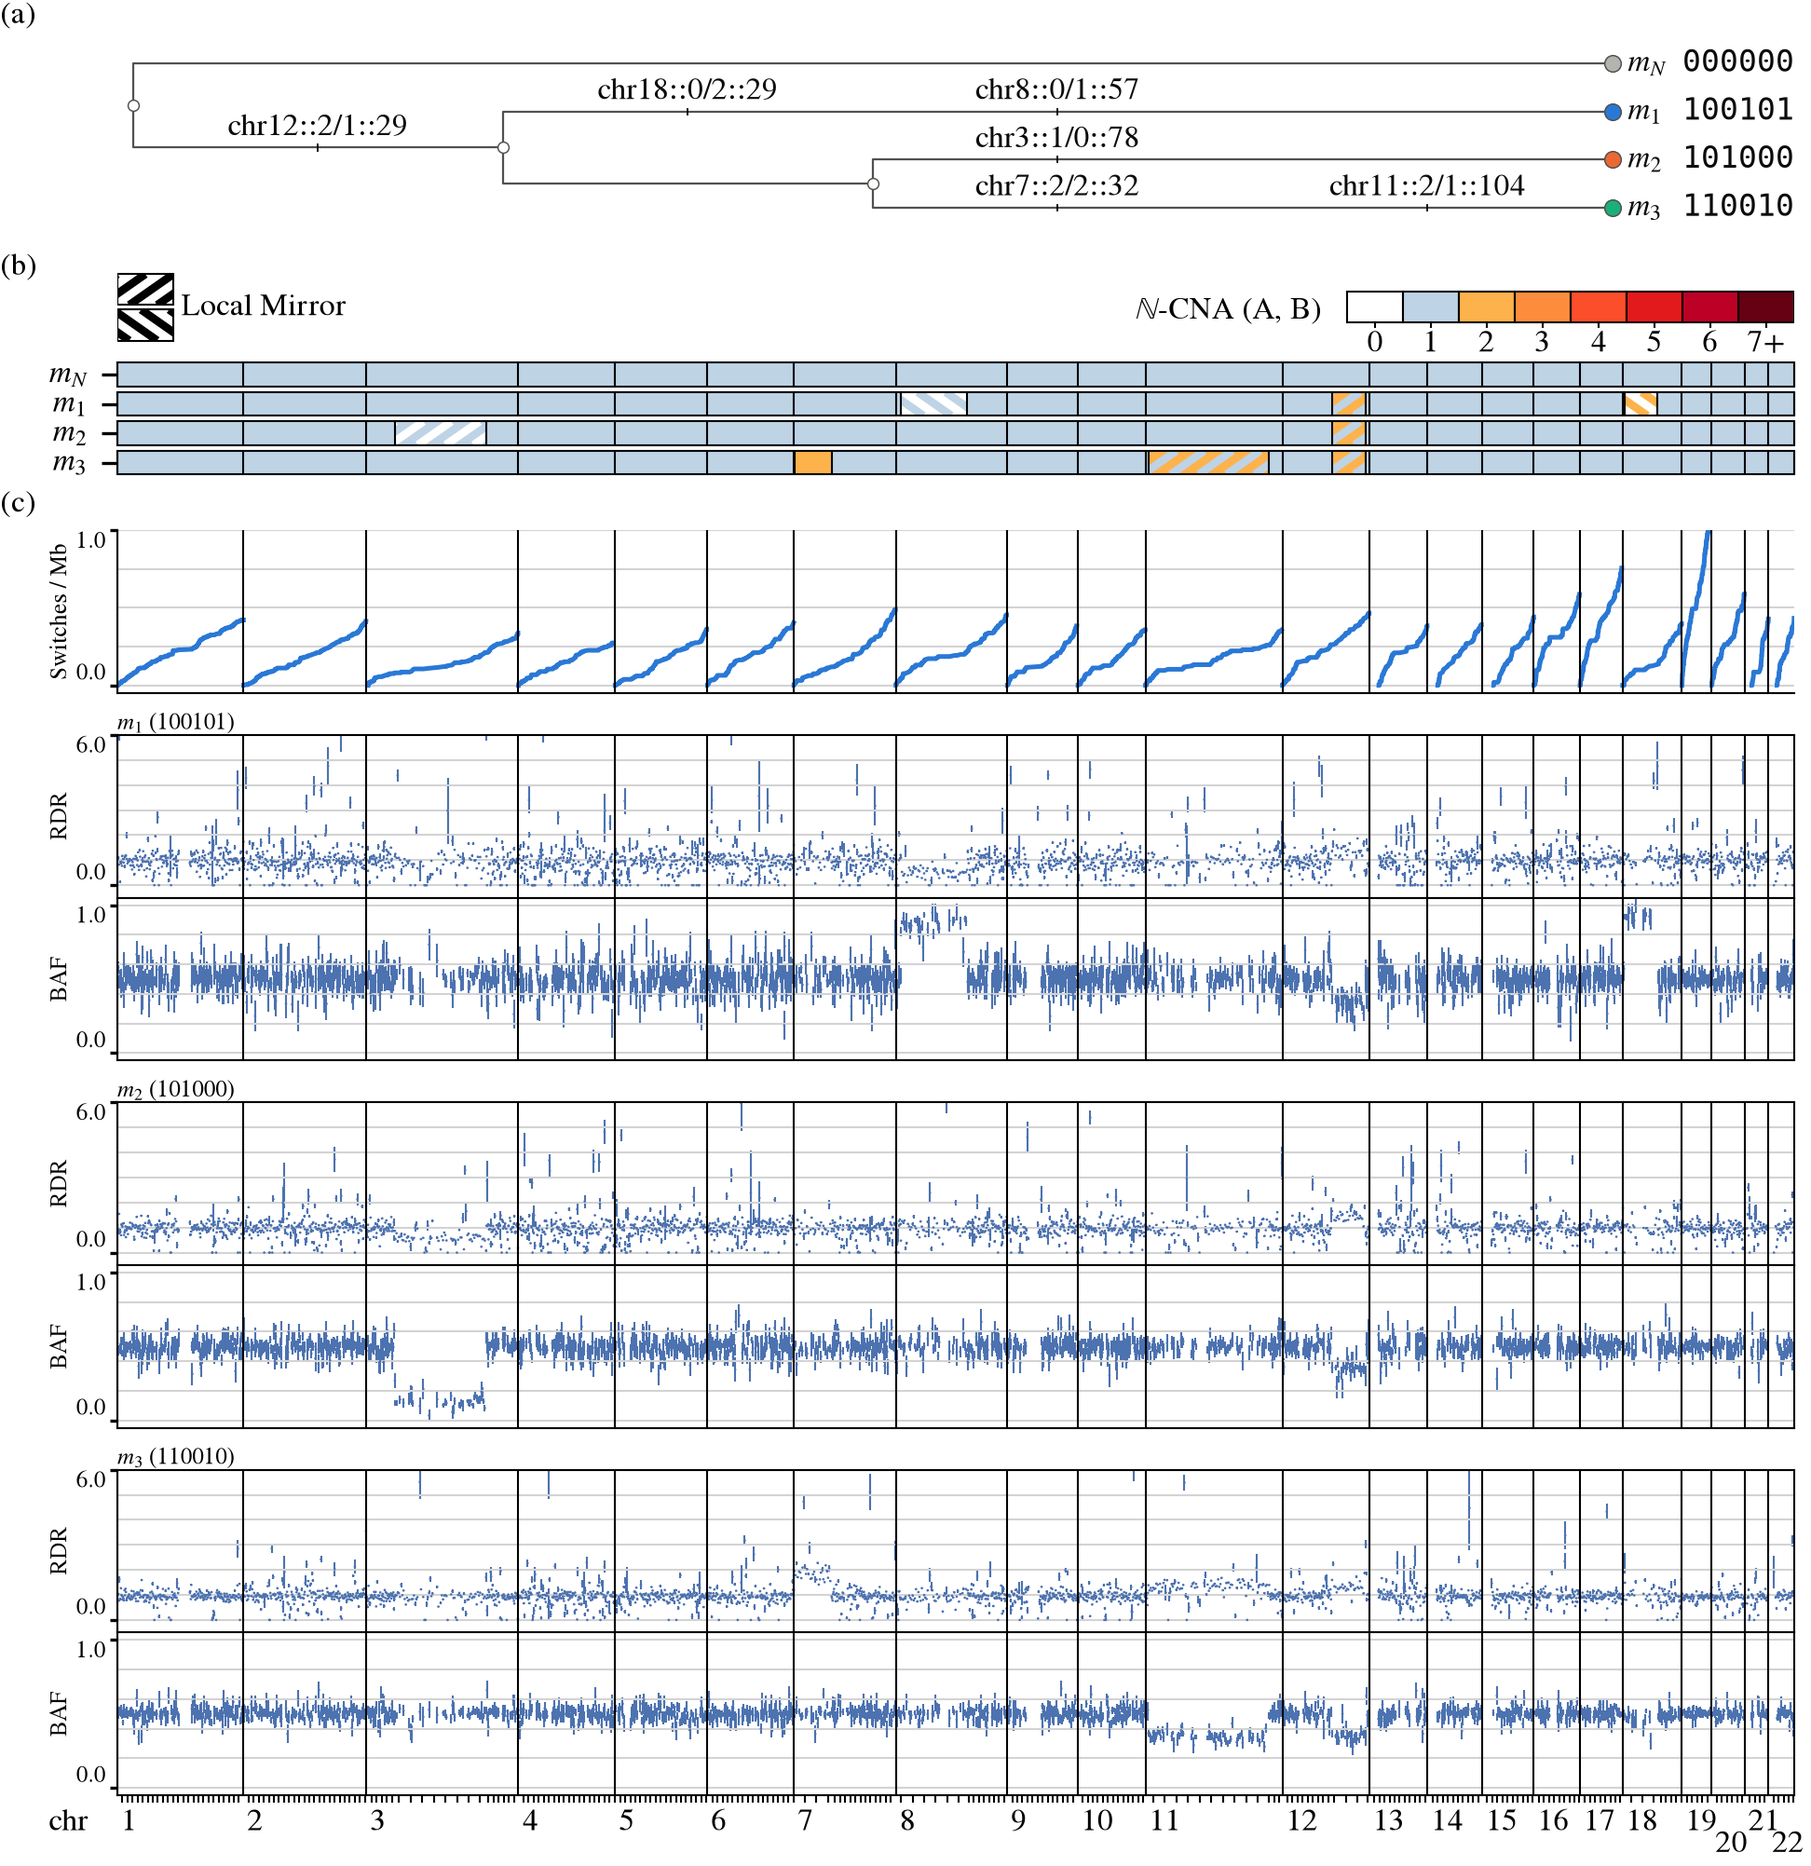
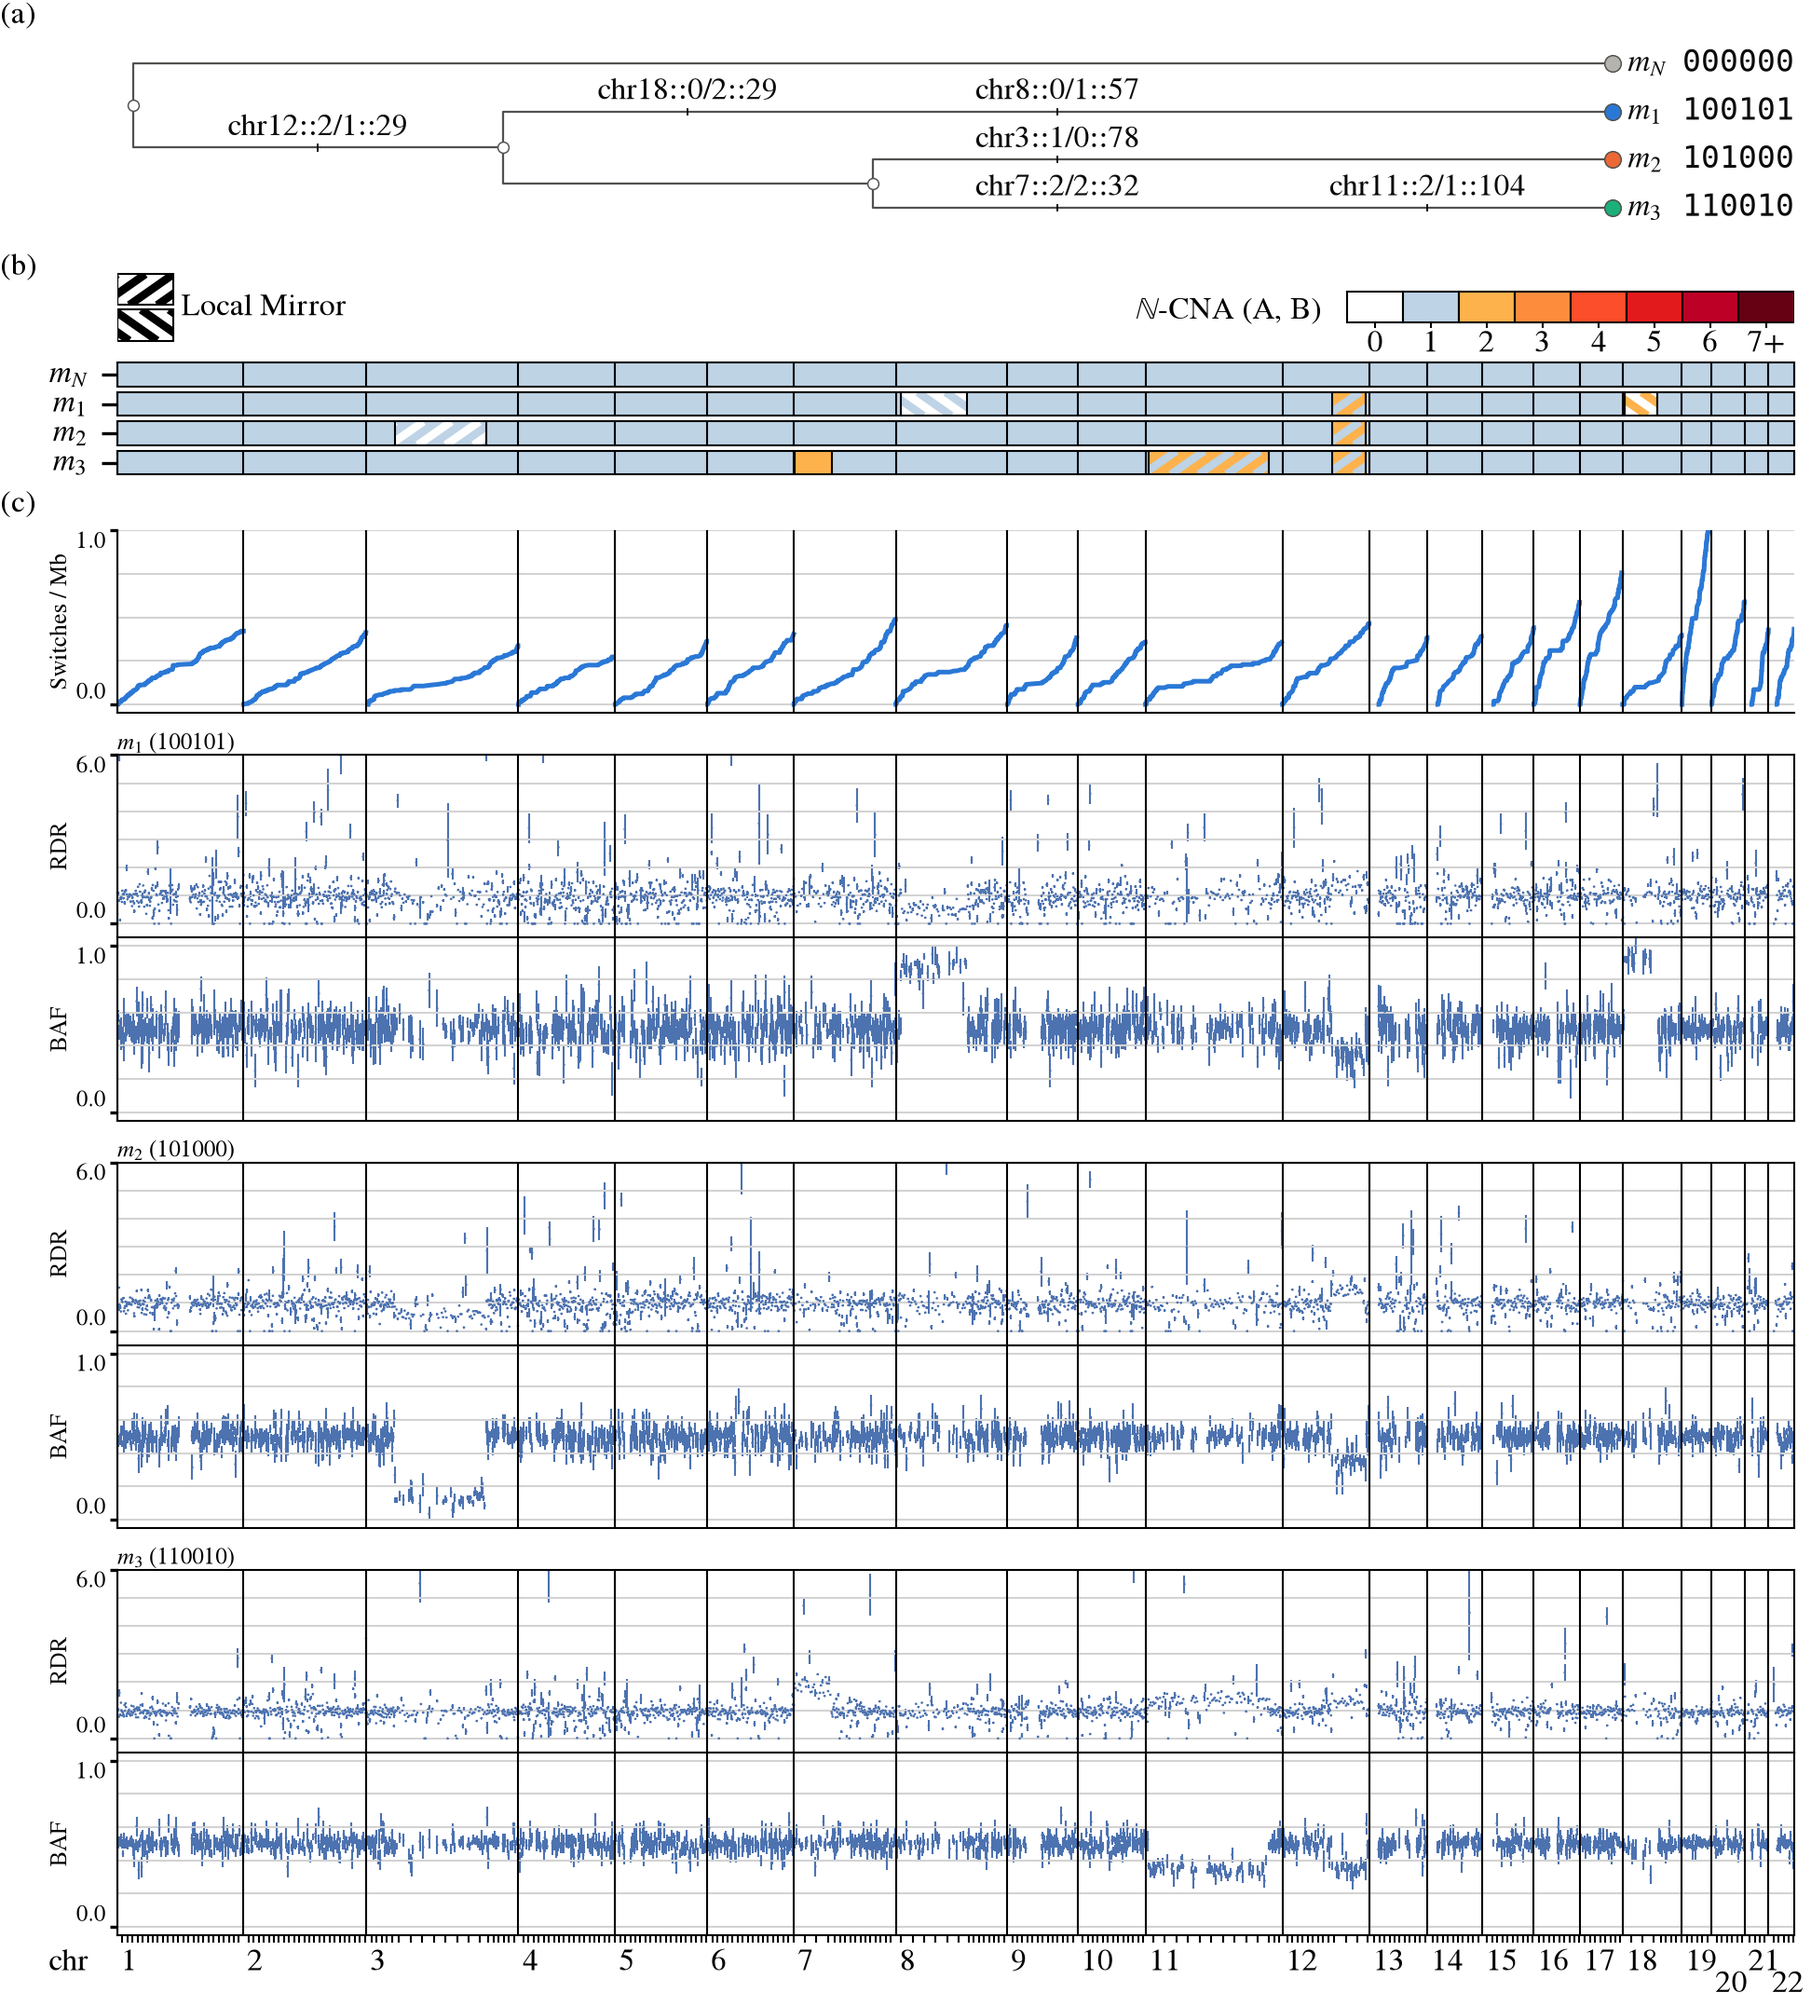
#791: paper pages regenerated; (c) across (b)'s genome axis; spatial page at 300 dpi
- truth_combined spatial variant: (c)'s row of slices shares (b)'s left
  and right edges (0.42-6.42 in on the two-slice counterpart). A single
  slice is height-bound at equal aspect: 0.42-4.76 in, left-aligned.
- `plot_spatial` saves at 300 dpi, as `he_slices_figure`: both pages
  1962 px wide; the spatial page 0.22 in taller for its key.
- `docs/plots/paper/` regenerated on dev_tree_1s_easy r0 (7ba9b01f), run
  `10a9e27-dev_tree_1s_easy_r0-2151`: clone ARI 0.9798, copy ARI pf 0.9335,
  219 s, 3.53 GB.

Claude-Session: https://claude.ai/code/session_01JXaY8ogGJw3Lo2bAgEaAaH

Changed region(s): [[0.0, 0.0, 1.0, 1.0], [0.1235, 0.031, 0.2469, 0.0929], [0.0, 0.1238, 0.0309, 0.1548]]

diff --git a/python/port/sim/truth_figure.py b/python/port/sim/truth_figure.py
@@ -142,7 +142,7 @@ def truth_combined_figure(
     width = PAPER_WIDTH if width is None else width
     symbol = _symbol(r)
     genome = binned_axis(r, metric=metric, labels=False)
-    tall_of = heights(_spatial_row(r, width) if spatial else None)
+    tall_of = heights(_spatial_row(r, width - LEFT - RIGHT) if spatial else None)
     foot = ROWS[0] + (CONTIG_FOOT if spatial else 0.0)
 
     with page_style():
@@ -187,7 +187,7 @@ def truth_combined_figure(
         if spatial:
             tracks: list[list[Any]] = []
             bottom_ax = profile_ax
-            _spatial_panel(genomic_fig, r, width, tall_of["spatial"])
+            # NB drawn once (b)'s edges are fitted, across them (below)
         else:
             g = genomic_truth(r)
             plot_clones_genomic(g.lengths, g.counts, g.expected, g.trials,
@@ -273,6 +273,10 @@ def truth_combined_figure(
         names_foot = name_contigs(bottom_ax, starts, contigs, size=FONT_SIZE)
         if not spatial:
             _stack_tracks(genomic_fig, names_foot, tracks)
+        if spatial:
+            # NB (c)'s row across (b)'s genome axis: one left and one right edge
+            _spatial_panel(genomic_fig, r, LEFT, right, tall_of["spatial"])
+            set_font_size(genomic_fig, FONT_SIZE)
         place_in_inches(tree_ax, LEFT, right)
         figure.canvas.draw()
         _fit_tree(tree_ax)
@@ -296,7 +300,9 @@ def _spatial_row(r: Realization, width: float) -> float:
     return float(row_height(len(frame.slices), frame.aspect, width))
 
 
-def _spatial_panel(panel: Any, r: Realization, width: float, height: float) -> None:
+def _spatial_panel(
+    panel: Any, r: Realization, left: float, right: float, height: float
+) -> None:
     """(c) of the spatial variant: each slice's true clones in the spatial
     pages' format, keyed by the paper's names, the key under the first slice."""
     from port.extensions.spatial_page import panel_row, spatial_key
@@ -306,10 +312,11 @@ def _spatial_panel(panel: Any, r: Realization, width: float, height: float) -> N
     _, axes = panel_row(
         len(frame.slices),
         frame.aspect,
-        width,
+        right - left,
         figure=panel,
         height=height,
         top=LETTER_ROOM,
+        left=left,
     )
     present = draw_spatial(axes, r, size=4.0)
     spatial_key(axes[0], [clone_name(c, r.clones) for c in present],

diff --git a/tests/test_sim_analysis.py b/tests/test_sim_analysis.py
@@ -149,7 +149,8 @@ def test_the_spatial_and_h_and_e_pages_share_one_format(
     """T- #791: `plot_spatial` and `he_slices_figure` draw each slice in one
     panel of one size, at the same limits, titled by its id alone (no
     "slice"), with the region the slices share dashed at the same place; the
-    spatial variant of `truth_combined` draws the same panels in its (c).
+    spatial variant of `truth_combined` draws the same panels in its (c),
+    across (b)'s genome axis, one left and one right edge (to a pixel).
     """
     import matplotlib.pyplot as plt
     from port.sim import analysis
@@ -159,7 +160,7 @@ def test_the_spatial_and_h_and_e_pages_share_one_format(
     r = read(drawn.path)
     caught: dict[str, Any] = {}
 
-    def keep(fig: Any, path: Path, *, tight: bool = True) -> Path:
+    def keep(fig: Any, path: Path, *, tight: bool = True, dpi: int = 150) -> Path:
         caught[path.name] = fig
         return path
 
@@ -177,6 +178,13 @@ def test_the_spatial_and_h_and_e_pages_share_one_format(
     inset = [(ax.get_xlim(), ax.get_ylim(), ax.get_title(loc="left"))
              for ax in sorted(page.subfigs[2].axes, key=lambda a: a.get_position().x0)]  # fmt: skip
     assert inset == [row[2:5] for row in spatial]
+    # NB (c)'s row across (b)'s genome axis, edge to edge, where its width binds
+    genome = page.subfigs[1].axes[-1].get_window_extent()
+    row = sorted(
+        (ax.get_window_extent() for ax in page.subfigs[2].axes), key=lambda b: b.x0
+    )
+    assert row[0].x0 == pytest.approx(genome.x0, abs=1.0)
+    assert row[-1].x1 == pytest.approx(genome.x1, abs=1.0)
     for fig in (*caught.values(), page):
         plt.close(fig)
     plt.close("all")
@@ -649,7 +657,7 @@ def test_clones_read_n_1_2_down_the_tree_and_alike_in_every_truth_figure(
 
     caught: dict[str, Any] = {}
 
-    def keep(fig: Any, path: Path, *, tight: bool = True) -> Path:
+    def keep(fig: Any, path: Path, *, tight: bool = True, dpi: int = 150) -> Path:
         caught[path.name] = fig
         return path
 

diff --git a/python/port/extensions/spatial_page.py b/python/port/extensions/spatial_page.py
@@ -50,6 +50,7 @@ def panel_row(
     figure: Any = None,
     height: float | None = None,
     top: float = 0.0,
+    left: float = 0.0,
 ) -> tuple[Any, list[Any]]:
     """`n_panels` axes in a row, `width` inches across in all (`PAPER_WIDTH` by
     default), each `aspect` (height over width) as tall as it is wide.
@@ -57,7 +58,8 @@ def panel_row(
     On a new page unless `figure` is given, which may be a subfigure; there,
     with `height`, the row is no taller than `height` inches less the title and
     key rooms, narrower if it must be, and left-aligned; `top` inches over the
-    titles are left clear, for a panel letter.
+    titles are left clear, for a panel letter, and the row starts `left` inches
+    in, to share an edge with another panel's axes.
     """
     import matplotlib.pyplot as plt
 
@@ -77,7 +79,12 @@ def panel_row(
     bottom = box_h - top - TITLE_ROOM - tall
     axes = [
         figure.add_axes(
-            (k * (side + PANEL_GAP) / box_w, bottom / box_h, side / box_w, tall / box_h)
+            (
+                (left + k * (side + PANEL_GAP)) / box_w,
+                bottom / box_h,
+                side / box_w,
+                tall / box_h,
+            )
         )
         for k in range(n_panels)
     ]

diff --git a/python/port/sim/analysis.py b/python/port/sim/analysis.py
@@ -456,7 +456,8 @@ def plot_spatial(r: Realization, out: Path) -> Path:
         spatial_key(axes[0], [clone_name(c, r.clones) for c in present],
                     [clone_colour(c, r.clones) for c in present])  # fmt: skip
         fit_to_content(fig)
-    return _save(fig, out / "spatial.png", tight=False)
+    # NB at the paper pages' 300 dpi, as `he_slices_figure` is written (T- #791)
+    return _save(fig, out / "spatial.png", tight=False, dpi=300)
 
 
 class Tree(NamedTuple):
@@ -977,11 +978,11 @@ def plot_coverage(r: Realization, out: Path) -> Path:
     return _save(fig, out / "coverage.png")
 
 
-def _save(fig: Any, path: Path, *, tight: bool = True) -> Path:
+def _save(fig: Any, path: Path, *, tight: bool = True, dpi: int = 150) -> Path:
     path.parent.mkdir(parents=True, exist_ok=True)
     if tight:
         fig.tight_layout()
-    fig.savefig(path, dpi=150, facecolor="white", metadata={"Software": None})
+    fig.savefig(path, dpi=dpi, facecolor="white", metadata={"Software": None})
     import matplotlib.pyplot as plt
 
     plt.close(fig)

diff --git a/docs/plots/paper/README.md b/docs/plots/paper/README.md
@@ -1,11 +1,11 @@
 # Paper figures: dev_tree_1s_easy r0 (7ba9b01f)
 
 **TL;DR:** clone ARI 0.9798, copy ARI (phase-free)
-0.9730, exact altered (phase-free)
-0.9729 (phased 0.2209), from one
+0.9335, exact altered (phase-free)
+0.8992 (phased 0.1473), from one
 `run_cnaster_port --sal --png-copies` run on `sim/manifests/dev_tree_1s_easy.toml` r0 at
-code `b816552`: 260 s wall, 3.42 GB peak.
-Ledger `run_id` `b816552-dev_tree_1s_easy_r0-1508` (`docs/metrics/`, fixture `dev_tree_1s_easy_r0` `7ba9b01f`).
+code `10a9e27`: 219 s wall, 3.53 GB peak.
+Ledger `run_id` `10a9e27-dev_tree_1s_easy_r0-2151` (`docs/metrics/`, fixture `dev_tree_1s_easy_r0` `7ba9b01f`).
 
 Regenerate from a clean tree, so the commit above carries no `+`; it draws r0 into
 `.cache/paper_figures/` where `--draw` is not given, and refuses any r0 not
@@ -18,7 +18,7 @@ headline figures alone (#745); every other page the run draws (the truth's panel
 the run's own pages, cnaster's copies and the truth-against-fit comparisons) is
 written under `.cache/plots/paper/` and regenerated on demand (`curate`). The figures
 carry no stamp (#743): `truth_combined.png` and `combined.png` are `dev_tree_1s_easy` r0
-`7ba9b01f` at code `b816552`, as above. `combined.png` draws panel (a) on a slide
+`7ba9b01f` at code `10a9e27`, as above. `combined.png` draws panel (a) on a slide
 mocked from the planted labels (`port.sim.he_slide`): the fixture has no H&E image,
 and the run never reads the mock. `solver_combined.png` is not drawn from this fixture:
 `--solvers POTTS.record COPY.record` draws it from a `port.studies.potts_stream` and a
@@ -31,7 +31,9 @@ T- #683), each on its own segmentation, so their contig widths differ.
 | File | Question | Source |
 | --- | --- | --- |
 | `truth_combined.png` | What was planted, on one page: tree, (A, B) profile, RDR and BAF per tumour clone, and the phase switches? | `port.sim.truth_figure.truth_combined_figure` |
+| `truth_combined_spatial.png` | The same, with where each true clone lies in place of RDR and BAF per clone? | `port.sim.truth_figure.truth_combined_figure(spatial=True)` |
 | `truth_combined_multisample.png` | The same, for the fixture's multi-sample counterpart: the same clones and laws on two overlapping slices, phase switch errors on? | `multisample_pages`: `truth_combined_figure` on `MULTISAMPLE[fixture]`'s r0 (`sim/manifests/dev_tree_easy.toml`) |
+| `truth_combined_spatial_multisample.png` | The same with where each true clone lies, for the counterpart: each slice, the region they share dashed? | `multisample_pages`: `truth_combined_figure(spatial=True)` on `MULTISAMPLE[fixture]`'s r0 |
 | `spatial_multisample.png` | Where is each true clone on each of the counterpart's slices? | `multisample_pages`: `port.sim.analysis.plot_spatial` |
 | `he_multisample.png` | What H&E slide do the counterpart's planted clones stain, slice by slice? | `he_slices_figure`: `port.sim.he_slide.mock_he` per slice |
 | `combined.png` | What did the run fit, genome and array on one page? | `port.extensions.combined_figure.combined_figure` |
